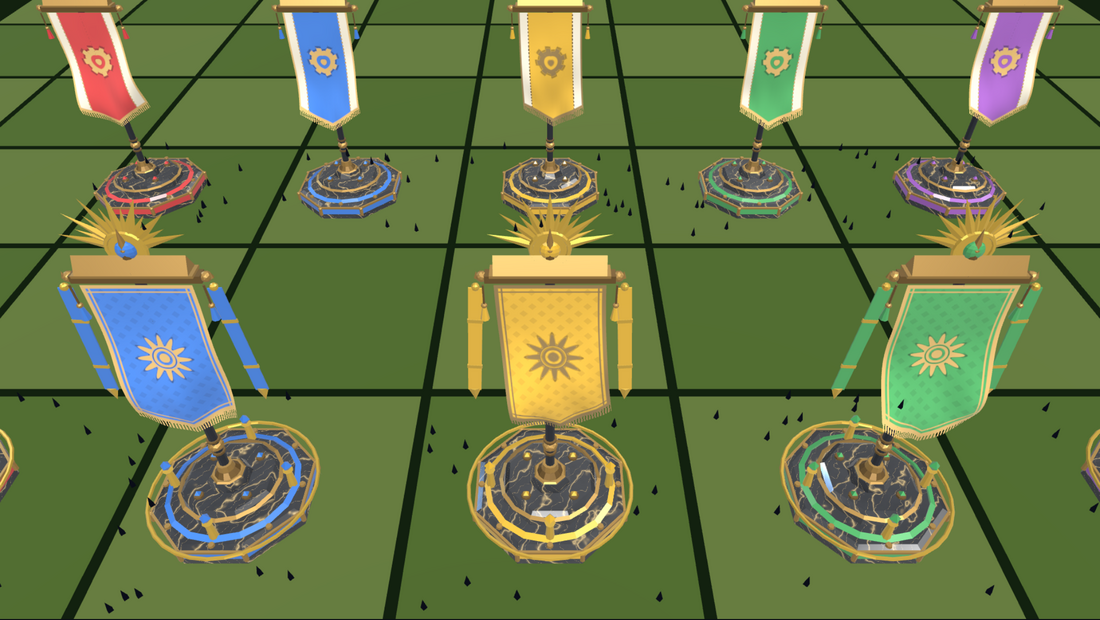
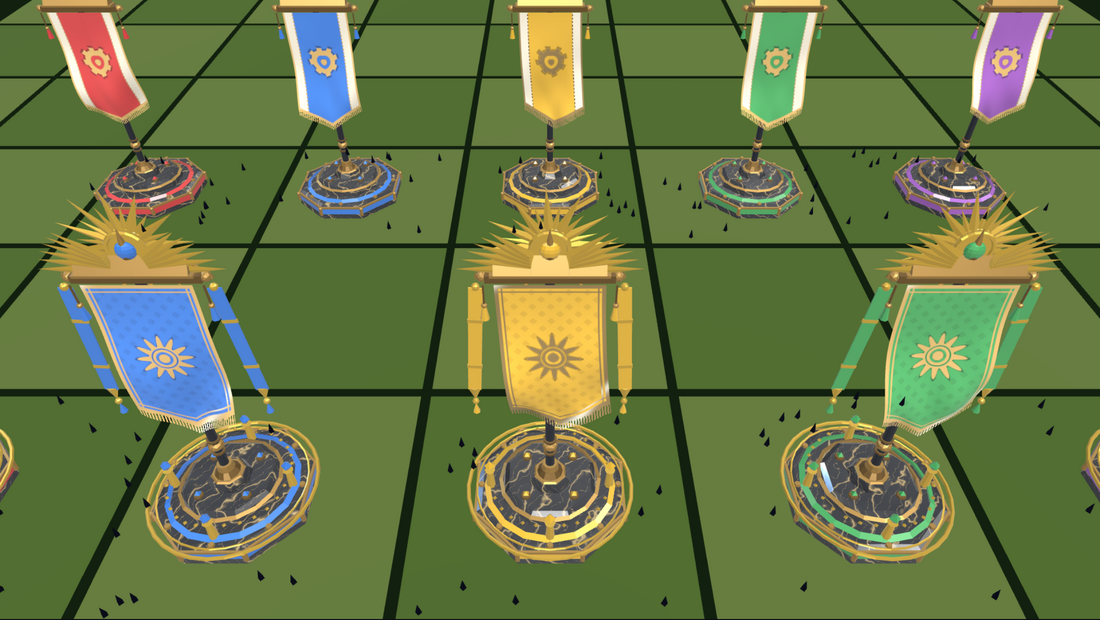
Make the High-noble standard grander
A full aureole of gold rays that turns slowly behind the head of the flag,
gilded wings from the crossbar, tasselled streamers, gold chains between
the plinth posts inside a double rim, and a glint that runs down the
cloth's gold thread. Still inside the standard footprint and within a
tenth of the standard height.

Claude-Session: https://claude.ai/code/session_01GKuP1fHqcCMF4BXUDVpE9M

diff --git a/packages/client/src/client-map-3d-muster-banner/muster-banner-regalia-geometry.ts b/packages/client/src/client-map-3d-muster-banner/muster-banner-regalia-geometry.ts
@@ -2,12 +2,14 @@
 // when its owner shows that cosmetic (docs/cosmetics.md). They are added on
 // top of the standard banner, which is drawn unchanged underneath:
 //
-//   - a sunburst behind the finial: a fan of gold rays round a gold boss set
-//     with a gem in the owner's colour;
-//   - a streamer in the owner's colour from each end of the crossbar, weighted
-//     with a gold drop;
+//   - an aureole behind the head of the standard: a full ring of gold rays
+//     that turns slowly (its own geometry, spun by the overlay), round a gold
+//     boss set with a gem in the owner's colour;
+//   - a pair of gilded wings spread from the crossbar's cap;
+//   - a streamer in the owner's colour from each end of the crossbar, banded
+//     and tasselled in gold;
 //   - four gold posts on the plinth, each topped with a gem in the owner's
-//     colour, inside a gold rim round the slab.
+//     colour and joined by gold chains, inside a double gold rim.
 //
 // Cosmetic rule: the regalia stays inside the standard plinth's footprint and
 // adds nothing a rival reads state from. The cloth, the soldiers, the siege
@@ -16,22 +18,22 @@ import { BufferGeometry, ConeGeometry, CylinderGeometry, OctahedronGeometry, Sph
 import { mergeGeometries } from "three/examples/jsm/utils/BufferGeometryUtils.js";
 import { BANNER_CLOTH, MUSTER_CROSSBAR_Y, MUSTER_PLINTH_RADIUS, MUSTER_PLINTH_TOP_Y } from "./muster-banner-geometry.js";
 
-/** Centre of the sunburst, just above the crossbar's gabled cap and behind the spear finial. */
-const SUN_Y = MUSTER_CROSSBAR_Y + 0.085;
-const SUN_Z = -0.012;
-const RAY_COUNT = 13;
-const RAY_BASE = 0.044; // rays start at the boss's rim
-const RAY_LONG = 0.125;
-const RAY_SHORT = 0.085;
-const RAY_SPREAD = (Math.PI * 5) / 6; // the fan opens 150 degrees, upwards
+/** Centre of the aureole, just above the crossbar's gabled cap and behind the spear finial. */
+export const AUREOLE_Y = MUSTER_CROSSBAR_Y + 0.085;
+export const AUREOLE_Z = -0.02;
+const RAY_COUNT = 24;
+const RAY_BASE = 0.05; // rays start at the boss's rim
+const RAY_LONG = 0.128;
+const RAY_SHORT = 0.08;
 /** How far a streamer hangs outside the cloth's edge. */
 const STREAMER_X = BANNER_CLOTH.width / 2 + 0.05;
 const STREAMER_LENGTH = 0.4;
 const POST_RADIUS = MUSTER_PLINTH_RADIUS * 0.76;
+const WING_FEATHERS = 6;
 
-/** Highest point of the regalia, for tests: the tip of the longest ray. */
-export const REGALIA_TOP_Y = SUN_Y + RAY_BASE + RAY_LONG;
-/** Widest point of the regalia from the pole, for tests: the gold rim. */
+/** Highest point of the regalia, for tests: the tip of a long ray pointing up. */
+export const REGALIA_TOP_Y = AUREOLE_Y + RAY_BASE + RAY_LONG;
+/** Widest point of the regalia from the pole, for tests: the outer gold rim. */
 export const REGALIA_MAX_RADIUS = MUSTER_PLINTH_RADIUS * 1.05 + 0.007;
 
 export type MusterBannerRegaliaGeometry = {
@@ -39,6 +41,8 @@ export type MusterBannerRegaliaGeometry = {
   readonly gold: BufferGeometry;
   /** Parts in the owner's colour, from instanceColor. */
   readonly tinted: BufferGeometry;
+  /** The ring of rays, gold, centred on the origin so the overlay can spin it about z. */
+  readonly aureole: BufferGeometry;
 };
 
 const merge = (parts: BufferGeometry[], label: string): BufferGeometry => {
@@ -49,19 +53,34 @@ const merge = (parts: BufferGeometry[], label: string): BufferGeometry => {
   return merged;
 };
 
-const buildSunburst = (gold: BufferGeometry[], tinted: BufferGeometry[]): void => {
+const buildAureole = (): BufferGeometry[] => {
+  const rays: BufferGeometry[] = [];
   for (let i = 0; i < RAY_COUNT; i += 1) {
-    const angle = -RAY_SPREAD / 2 + (RAY_SPREAD * i) / (RAY_COUNT - 1); // 0 = straight up
     const long = i % 2 === 0;
     const length = long ? RAY_LONG : RAY_SHORT;
-    // A flat, four-sided ray pointing up, pushed out from the boss, then swung to its angle.
-    const ray = new ConeGeometry(long ? 0.017 : 0.012, length, 4).scale(1, 1, 0.45);
-    ray.translate(0, RAY_BASE + length / 2, 0).rotateZ(-angle).translate(0, SUN_Y, SUN_Z);
-    gold.push(ray);
+    // A flat, four-sided ray pointing up, pushed out from the boss, then swung to its place in the ring.
+    const ray = new ConeGeometry(long ? 0.016 : 0.011, length, 4).scale(1, 1, 0.45);
+    rays.push(ray.translate(0, RAY_BASE + length / 2, 0).rotateZ((i / RAY_COUNT) * Math.PI * 2));
   }
-  gold.push(new CylinderGeometry(0.05, 0.05, 0.014, 20).rotateX(Math.PI / 2).translate(0, SUN_Y, SUN_Z));
-  gold.push(new TorusGeometry(0.05, 0.007, 6, 20).translate(0, SUN_Y, SUN_Z + 0.005));
-  tinted.push(new SphereGeometry(0.028, 12, 8).scale(1, 1, 0.55).translate(0, SUN_Y, SUN_Z + 0.01));
+  rays.push(new TorusGeometry(RAY_BASE + 0.004, 0.005, 5, 24));
+  return rays;
+};
+
+const buildBossAndWings = (gold: BufferGeometry[], tinted: BufferGeometry[]): void => {
+  gold.push(new CylinderGeometry(0.05, 0.05, 0.014, 20).rotateX(Math.PI / 2).translate(0, AUREOLE_Y, AUREOLE_Z + 0.008));
+  gold.push(new TorusGeometry(0.05, 0.007, 6, 20).translate(0, AUREOLE_Y, AUREOLE_Z + 0.014));
+  tinted.push(new SphereGeometry(0.028, 12, 8).scale(1, 1, 0.55).translate(0, AUREOLE_Y, AUREOLE_Z + 0.02));
+  // Wings: feathers fanned from the cap, longest lowest, like a spread eagle's.
+  for (const side of [-1, 1]) {
+    for (let f = 0; f < WING_FEATHERS; f += 1) {
+      const t = f / (WING_FEATHERS - 1);
+      const length = 0.2 - 0.07 * t;
+      const lift = 0.02 + 0.62 * t; // radians above horizontal: swept out sideways, clear of the rays
+      const feather = new ConeGeometry(0.026 - 0.008 * t, length, 4).scale(1, 1, 0.3);
+      feather.translate(0, length / 2, 0).rotateZ(-side * (Math.PI / 2 - lift));
+      gold.push(feather.translate(side * 0.05, MUSTER_CROSSBAR_Y + 0.026 + 0.011 * f, 0.006 + 0.003 * f));
+    }
+  }
 };
 
 const buildStreamers = (gold: BufferGeometry[], tinted: BufferGeometry[]): void => {
@@ -81,12 +100,26 @@ const buildStreamers = (gold: BufferGeometry[], tinted: BufferGeometry[]): void 
     const dropX = side * STREAMER_X + Math.sin(lean) * STREAMER_LENGTH;
     const dropY = top - Math.cos(lean) * STREAMER_LENGTH;
     gold.push(new ConeGeometry(0.02, 0.05, 4).rotateX(Math.PI).scale(1, 1, 0.4).translate(dropX, dropY - 0.02, 0.012));
+    gold.push(new SphereGeometry(0.011, 8, 6).translate(dropX, dropY - 0.052, 0.012));
+    tinted.push(new ConeGeometry(0.012, 0.04, 6).translate(dropX, dropY - 0.08, 0.012));
     gold.push(new SphereGeometry(0.012, 8, 6).translate(side * STREAMER_X, top + 0.004, 0.012));
   }
 };
 
 const buildPlinthGilding = (gold: BufferGeometry[], tinted: BufferGeometry[]): void => {
   gold.push(new TorusGeometry(MUSTER_PLINTH_RADIUS * 1.05, 0.007, 6, 32).rotateX(Math.PI / 2).translate(0, 0.046, 0));
+  gold.push(new TorusGeometry(MUSTER_PLINTH_RADIUS * 0.94, 0.004, 5, 32).rotateX(Math.PI / 2).translate(0, 0.054, 0));
+  const chainY = MUSTER_PLINTH_TOP_Y + 0.022;
+  for (let k = 0; k < 4; k += 1) {
+    // A chain of gold beads sagging from each post to the next.
+    const from = (k * Math.PI) / 2;
+    for (let bead = 1; bead <= 6; bead += 1) {
+      const t = bead / 7;
+      const angle = from + (t * Math.PI) / 2;
+      const sag = 0.028 * Math.sin(t * Math.PI);
+      gold.push(new OctahedronGeometry(0.008).translate(Math.cos(angle) * POST_RADIUS, chainY - sag, Math.sin(angle) * POST_RADIUS));
+    }
+  }
   for (let k = 0; k < 4; k += 1) {
     const angle = (k * Math.PI) / 2;
     const [x, z] = [Math.cos(angle) * POST_RADIUS, Math.sin(angle) * POST_RADIUS];
@@ -104,9 +137,9 @@ export const getMusterBannerRegaliaGeometry = (): MusterBannerRegaliaGeometry =>
   if (cached) return cached;
   const gold: BufferGeometry[] = [];
   const tinted: BufferGeometry[] = [];
-  buildSunburst(gold, tinted);
+  buildBossAndWings(gold, tinted);
   buildStreamers(gold, tinted);
   buildPlinthGilding(gold, tinted);
-  cached = { gold: merge(gold, "gold"), tinted: merge(tinted, "tinted") };
+  cached = { gold: merge(gold, "gold"), tinted: merge(tinted, "tinted"), aureole: merge(buildAureole(), "aureole") };
   return cached;
 };

diff --git a/packages/client/src/client-map-3d-muster-overlay.ts b/packages/client/src/client-map-3d-muster-overlay.ts
@@ -19,7 +19,7 @@ import { applyBuildingEnvMap } from "./client-map-3d-building-envmap/client-map-
 import type { MusterFlagDesign } from "./client-cosmetics/client-cosmetics.js";
 import { BANNER_DESIGN_INDEX, createMusterBannerClothMaterials } from "./client-map-3d-muster-banner/muster-banner-cloth-material.js";
 import { getMusterBannerGeometry, MUSTER_PLINTH_LEDGES } from "./client-map-3d-muster-banner/muster-banner-geometry.js";
-import { getMusterBannerRegaliaGeometry } from "./client-map-3d-muster-banner/muster-banner-regalia-geometry.js";
+import { AUREOLE_Y, AUREOLE_Z, getMusterBannerRegaliaGeometry } from "./client-map-3d-muster-banner/muster-banner-regalia-geometry.js";
 import { applyMarbleFinish } from "./client-map-3d-muster-banner/muster-banner-marble-material.js";
 import { createMusterProgressBadgeLayer, type MusterProgressBadgeSlot } from "./client-map-3d-muster-progress-badge.js";
 import type { MusterBadgeInfo } from "./client-muster-flag-badge/client-muster-flag-badge.js";
@@ -196,9 +196,12 @@ export const createMusterOverlay = (
   const regaliaGold = new InstancedMesh(regalia.gold, goldMaterial, MAX);
   const regaliaEnamel = new InstancedMesh(regalia.tinted, enamelMaterial, MAX);
   regaliaEnamel.instanceMatrix = regaliaGold.instanceMatrix;
-  const regaliaMeshes = [regaliaGold, regaliaEnamel];
+  // The aureole turns, so it has its own matrices, written each tick.
+  const regaliaAureole = new InstancedMesh(regalia.aureole, goldMaterial, MAX);
+  const regaliaMeshes = [regaliaGold, regaliaEnamel, regaliaAureole];
+  const nobleEntries: TileEntry[] = [];
   for (const [i, mesh] of regaliaMeshes.entries()) {
-    mesh.name = `muster-banner-regalia-${["gold", "enamel"][i]}`;
+    mesh.name = `muster-banner-regalia-${["gold", "enamel", "aureole"][i]}`;
     mesh.customDepthMaterial = depthMaterial;
     mesh.frustumCulled = false;
     mesh.castShadow = true;
@@ -249,12 +252,14 @@ export const createMusterOverlay = (
     const count = entries.length;
     for (const mesh of pieceMeshes) mesh.count = count;
     let regaliaCount = 0;
+    nobleEntries.length = 0;
     for (let i = 0; i < count; i++) {
       const e = entries[i]!;
       body.setMatrixAt(i, matrix.makeTranslation(e.sceneX, e.surfaceY + TOWN_BASE_LIFT, e.sceneZ));
       if (e.design === "flag-high-noble") {
         regaliaGold.setMatrixAt(regaliaCount, matrix);
         regaliaEnamel.setColorAt(regaliaCount, e.tintColor);
+        nobleEntries.push(e);
         regaliaCount += 1;
       }
       enamel.setColorAt(i, e.tintColor);
@@ -344,8 +349,22 @@ export const createMusterOverlay = (
     progressBadges.sync(badgeSlots, nowMs);
   };
 
+  // One slow turn every 40 seconds; each flag starts at its own angle.
+  const applyAureoles = (nowMs: number): void => {
+    if (nobleEntries.length === 0) return;
+    for (const [i, e] of nobleEntries.entries()) {
+      dummy.position.set(e.sceneX, e.surfaceY + TOWN_BASE_LIFT + AUREOLE_Y, e.sceneZ + AUREOLE_Z);
+      dummy.rotation.set(0, 0, ((nowMs / 40_000) % 1) * Math.PI * 2 + hash01(e.worldTileX, e.worldTileY, 0, 41) * Math.PI * 2);
+      dummy.scale.setScalar(1);
+      dummy.updateMatrix();
+      regaliaAureole.setMatrixAt(i, dummy.matrix);
+    }
+    regaliaAureole.instanceMatrix.needsUpdate = true;
+  };
+
   const tick = (nowMs: number): void => {
     clothMaterials.tick(nowMs);
+    applyAureoles(nowMs);
     applySoldierMatrices(nowMs);
     applySiegeRings(nowMs);
     applyProgressBadges(nowMs);

diff --git a/packages/storybook/src/map/combat/muster/FlagDesigns.stories.ts b/packages/storybook/src/map/combat/muster/FlagDesigns.stories.ts
@@ -75,8 +75,9 @@ const meta: Meta<Args> = {
       description: {
         component: [
           "Muster flag cosmetics (docs/cosmetics.md). Back row: the standard flag every account has. Front row: the same five",
-          "Houses showing the High-noble standard: a gilded sunburst behind the finial, a House streamer from each end of the",
-          "crossbar, gold posts and a gold rim on the plinth, and a gold-bordered damask cloth with a sun in splendour.",
+          "Houses showing the High-noble standard: a slowly turning aureole of gold rays, gilded wings, a tasselled House",
+          "streamer from each end of the crossbar, chained gold posts and a double gold rim on the plinth, and a gold-bordered",
+          "damask cloth with a sun in splendour and a glint that runs down its gold thread.",
           "The cloth's outline, the owner's colour as the field, the brighter and faster ADVANCE banner and the soldier",
           "count are identical, so a rival reads owner, mode and strength exactly as from the standard flag.",
           "The 2D map has no banner; its only muster flag is the pennant on your own besieged flag (Pennant2D)."

diff --git a/packages/client/src/client-map-3d-muster-banner/muster-banner-cloth-material.ts b/packages/client/src/client-map-3d-muster-banner/muster-banner-cloth-material.ts
@@ -107,6 +107,7 @@ const FRAGMENT_DECLARATIONS = /* glsl */ `
 varying vec2 vBannerUv;
 varying float vBannerFold;
 varying float vBannerDesign;
+uniform float uBannerTime;
 uniform vec3 uBannerTrim;
 uniform vec3 uBannerBand;
 ${SHAPE_CONSTANTS}
@@ -189,6 +190,9 @@ const COLOR_PATCH = /* glsl */ `
   diffuseColor.rgb = mix(diffuseColor.rgb, uBannerBand, band);
   diffuseColor.rgb = mix(diffuseColor.rgb, diffuseColor.rgb * 0.45, outline);
   diffuseColor.rgb = mix(diffuseColor.rgb, thread * 0.7, seam);
+  // High-noble standard: a glint runs down the gold thread every few seconds.
+  float glint = step(0.5, vBannerDesign) * pow(max(0.0, sin((drop * 1.6 + u * 0.7) * 3.14159 - uBannerTime * 1.1)), 40.0);
+  thread = mix(thread, vec3(1.0, 0.96, 0.78), glint * 0.75);
   diffuseColor.rgb = mix(diffuseColor.rgb, thread, max(max(trim, device), fringe));
   diffuseColor.rgb *= shade;
 }

diff --git a/packages/client/src/client-map-3d-muster-banner/muster-banner-regalia-geometry.test.ts b/packages/client/src/client-map-3d-muster-banner/muster-banner-regalia-geometry.test.ts
@@ -33,7 +33,8 @@ describe("High-noble standard regalia", () => {
   });
 
   it("keeps its poly count small enough for every flag on screen to carry it", () => {
-    const triangles = (regalia.gold.getAttribute("position").count + regalia.tinted.getAttribute("position").count) / 3;
-    expect(triangles).toBeLessThan(2_500);
+    const triangles = [regalia.gold, regalia.tinted, regalia.aureole].reduce((sum, g) => sum + g.getAttribute("position").count, 0) / 3;
+    // Half a Great Project monument's 6,000-triangle budget (docs/monument-models.md).
+    expect(triangles).toBeLessThan(3_000);
   });
 });

diff --git a/packages/shared/src/cosmetics/cosmetics.ts b/packages/shared/src/cosmetics/cosmetics.ts
@@ -27,7 +27,7 @@ export const COSMETIC_CATALOG = [
     id: "flag-high-noble",
     slot: "musterFlag",
     label: "High-noble standard",
-    description: "A gilded muster standard: sunburst finial, House streamers, gold-bordered damask cloth."
+    description: "A gilded muster standard: turning aureole, golden wings, House streamers, gold-bordered damask cloth."
   }
 ] as const satisfies readonly CosmeticDefinition[];
 

diff --git a/docs/cosmetics.md b/docs/cosmetics.md
@@ -29,7 +29,7 @@ area.
 
 | Id | Slot | Working title | Look |
 |---|---|---|---|
-| `flag-high-noble` | `musterFlag` | High-noble standard | A gilded standard: a gold sunburst behind the finial set with a gem in the owner's colour, a streamer in the owner's colour from each end of the crossbar, four gold posts topped with gems and a gold rim on the plinth, and a gold-bordered damask cloth with a sun in splendour in place of the side bands and cog |
+| `flag-high-noble` | `musterFlag` | High-noble standard | A gilded standard: a slowly turning aureole of gold rays behind the head of the flag round a gem in the owner's colour, gilded wings spread from the crossbar, a banded and tasselled streamer in the owner's colour from each end of the crossbar, four gold posts topped with gems and joined by gold chains inside a double gold rim on the plinth, and a gold-bordered damask cloth with a sun in splendour, across whose gold thread a glint runs every few seconds |
 
 One cosmetic for now (owner decision, 2026-11-24): the muster flag is a
 House's own property and the thing to make grand. An ancillary skin, colour
@@ -50,8 +50,11 @@ Known gaps:
 - **The 2D map draws no muster flag for rivals, standard or not**, so a rival
   on the 2D map does not see the High-noble standard. Drawing one would change
   what 2D players can read and is a gameplay decision, not a cosmetic one.
-- The streamers are rigid; only the cloth moves in the wind.
+- The streamers are rigid; the cloth moves in the wind and the aureole turns.
 - The look must not be mistaken for the earned Duke title. It uses no crown.
+- The regalia adds about 2,600 triangles per High-noble flag, in three more
+  draw calls for all such flags together, and one matrix per such flag per
+  frame for the turning aureole. A standard flag costs nothing extra.
 
 Review story: `Map/Combat/Muster/Flag Designs` in Storybook.
 
